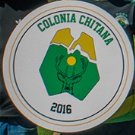
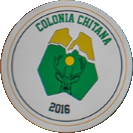
Ajuste de escudos y bracket finales

diff --git a/index.html b/index.html
@@ -83,6 +83,14 @@
     </div>
   </section>
 
+  <!-- Bracket -->
+  <section class="py-12 bg-white">
+    <div class="container mx-auto px-6">
+      <h3 class="text-3xl font-bold text-gray-800 mb-8 text-center">Fase Final</h3>
+      <div id="bracketContainer"></div>
+    </div>
+  </section>
+
   <!-- Equipos -->
   <section class="py-16">
     <div class="container mx-auto px-6">
@@ -205,7 +213,19 @@
       resultadosPasados: [
         { resultado: "Chita FC 1 - 2 Bogotá FC", fecha: "1 Nov 2025" },
         { resultado: "Tunja FC 2 - 2 Llanera FC", fecha: "2 Nov 2025" }
-      ]
+      ],
+      bracket: {
+        final: {
+          equipoA: { nombre: "Chita FC", escudo: "assets/Chita.png" },
+          equipoB: { nombre: "Tunja FC", escudo: "assets/Tunja.png" },
+          fecha: "2/11 - 3 pm"
+        },
+        campeon: { nombre: "Chita FC", escudo: "assets/Chita.png" },
+        tercerPuesto: [
+          { nombre: "Bogotá FC", escudo: "assets/Bogota.png" },
+          { nombre: "Llanera FC", escudo: "assets/Llanera.png" }
+        ]
+      }
     },
     "Veteranos": {
       equipos: [
@@ -274,7 +294,19 @@
       ],
       resultadosPasados: [
         { resultado: "Llanera FC 0 - 1 Tunja FC", fecha: "3 Nov 2025" }
-      ]
+      ],
+      bracket: {
+        final: {
+          equipoA: { nombre: "Tunja FC", escudo: "assets/Tunja.png" },
+          equipoB: { nombre: "Llanera FC", escudo: "assets/Llanera.png" },
+          fecha: "2/11 - 5 pm"
+        },
+        campeon: { nombre: "Tunja FC", escudo: "assets/Tunja.png" },
+        tercerPuesto: [
+          { nombre: "Chita FC", escudo: "assets/Chita.png" },
+          { nombre: "Bogotá FC", escudo: "assets/Bogota.png" }
+        ]
+      }
     },
     "Mujeres": {
       equipos: [
@@ -343,7 +375,19 @@
       ],
       resultadosPasados: [
         { resultado: "Tunja FC 2 - 0 Chita FC", fecha: "4 Nov 2025" }
-      ]
+      ],
+      bracket: {
+        final: {
+          equipoA: { nombre: "Bogotá FC", escudo: "assets/Bogota.png" },
+          equipoB: { nombre: "Chita FC", escudo: "assets/Chita.png" },
+          fecha: "2/11 - 7 pmh"
+        },
+        campeon: { nombre: "Bogotá FC", escudo: "assets/Bogota.png" },
+        tercerPuesto: [
+          { nombre: "Tunja FC", escudo: "assets/Tunja.png" },
+          { nombre: "Llanera FC", escudo: "assets/Llanera.png" }
+        ]
+      }
     }
   };
 
@@ -414,6 +458,7 @@
     renderPartidos(dataCategorias[categoria].partidosEnVivo);
     renderProximosPartidos(dataCategorias[categoria].proximosPartidos);
     renderResultados(dataCategorias[categoria].resultadosPasados);
+    renderBracket(dataCategorias[categoria].bracket);
   }
 
   function showEquipo(nombreEquipo) {
@@ -472,6 +517,58 @@
   // Inicializar
   renderCategoria("Única");
   activarTab(document.getElementById("tabUnica"));
+
+  function renderBracket(bracket) {
+    const html = `
+      <div class="flex flex-col items-center">
+        <!-- Final -->
+        <div class="flex flex-col items-center mb-12">
+          <div class="flex items-center justify-center space-x-12">
+            <div class="flex flex-col items-center">
+              <div class="w-20 h-20 bg-gray-100 rounded-full flex items-center justify-center shadow-lg border-4 border-[#B8E2A6]">
+                <img src="${bracket.final.equipoA.escudo}" alt="${bracket.final.equipoA.nombre}" class="w-14 h-14 object-contain" />
+              </div>
+              <span class="mt-2 text-sm text-gray-700 font-semibold">${bracket.final.equipoA.nombre}</span>
+            </div>
+            <span class="text-gray-600 font-semibold text-center">
+              Final<br>
+              <span class="text-lg font-bold text-[#F89D58]">${bracket.final.fecha}</span>
+            </span>
+            <div class="flex flex-col items-center">
+              <div class="w-20 h-20 bg-gray-100 rounded-full flex items-center justify-center shadow-lg border-4 border-[#B8E2A6]">
+                <img src="${bracket.final.equipoB.escudo}" alt="${bracket.final.equipoB.nombre}" class="w-14 h-14 object-contain" />
+              </div>
+              <span class="mt-2 text-sm text-gray-700 font-semibold">${bracket.final.equipoB.nombre}</span>
+            </div>
+          </div>
+          <div class="w-40 h-40 mt-8 bg-gradient-to-tr from-[#B8E2A6] to-[#918a59] rounded-full flex flex-col items-center justify-center shadow-xl border-4 border-[#F89D58]">
+            <img src="${bracket.campeon.escudo}" alt="Campeón" class="w-16 h-16 object-contain mb-2" />
+            <span class="text-sm font-bold text-[#524C4C]">Campeón</span>
+            <span class="text-sm text-[#524C4C] font-semibold">${bracket.campeon.nombre}</span>
+          </div>
+        </div>
+        <!-- 3er y 4to puesto -->
+        <div class="flex flex-col items-center">
+          <span class="text-gray-600 font-semibold mb-4">3° y 4° puesto</span>
+          <div class="flex space-x-12">
+            <div class="flex flex-col items-center">
+              <div class="w-14 h-14 bg-gray-100 rounded-full flex items-center justify-center shadow border-2 border-[#B8E2A6]">
+                <img src="${bracket.tercerPuesto[0].escudo}" alt="${bracket.tercerPuesto[0].nombre}" class="w-10 h-10 object-contain" />
+              </div>
+              <span class="mt-1 text-xs text-gray-700 font-semibold">${bracket.tercerPuesto[0].nombre}</span>
+            </div>
+            <div class="flex flex-col items-center">
+              <div class="w-14 h-14 bg-gray-100 rounded-full flex items-center justify-center shadow border-2 border-[#B8E2A6]">
+                <img src="${bracket.tercerPuesto[1].escudo}" alt="${bracket.tercerPuesto[1].nombre}" class="w-10 h-10 object-contain" />
+              </div>
+              <span class="mt-1 text-xs text-gray-700 font-semibold">${bracket.tercerPuesto[1].nombre}</span>
+            </div>
+          </div>
+        </div>
+      </div>
+    `;
+    document.getElementById("bracketContainer").innerHTML = html;
+  }
 </script>
 </body>
 </html>
